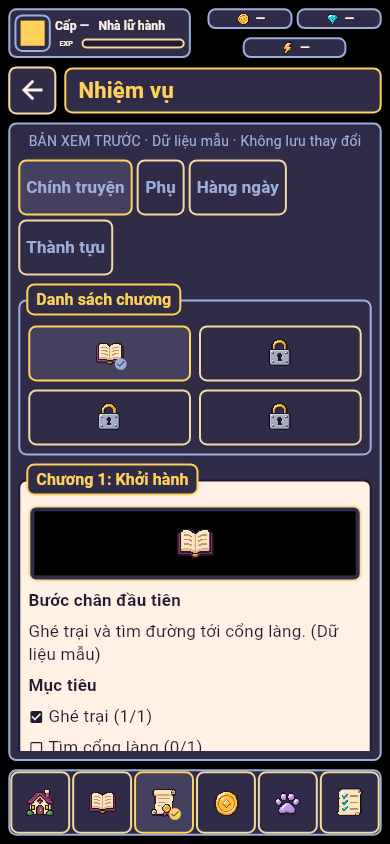
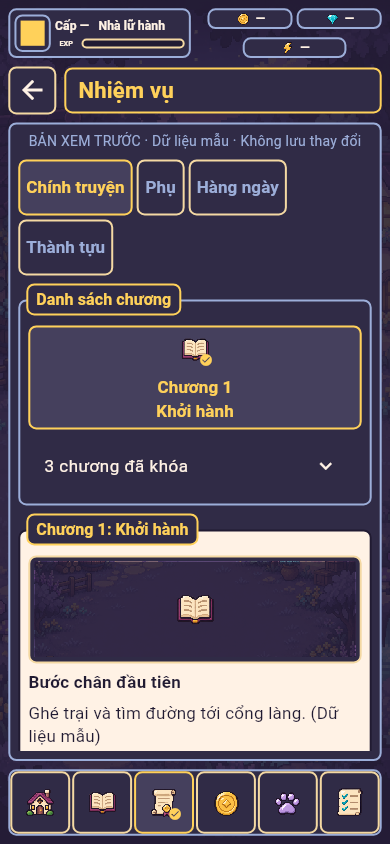
feat: clarify quest objectives and sample rewards
Keep the current chapter prominent and collapse locked chapters. Add a readable objective track and named reward cards on cream paper; preserve selected color on read-only controls.

diff --git a/lib/features/quests/presentation/quest_detail.dart b/lib/features/quests/presentation/quest_detail.dart
@@ -21,7 +21,8 @@ class QuestDetail extends StatelessWidget {
         const MenuPreview(icon: PixelIconKind.story),
         const Text('Bước chân đầu tiên', style: GameTypography.heading),
         const Text('Ghé trại và tìm đường tới cổng làng. (Dữ liệu mẫu)'),
-        const Text('Mục tiêu', style: GameTypography.heading),
+        const Text('Mục tiêu · 1 / 3', style: GameTypography.heading),
+        const PixelProgress(value: 1 / 3, label: 'Tiến độ nhiệm vụ mẫu: 1 / 3'),
         for (final (done, label) in const [
           (true, 'Ghé trại (1/1)'),
           (false, 'Tìm cổng làng (0/1)'),
@@ -32,7 +33,7 @@ class QuestDetail extends StatelessWidget {
             children: [
               Icon(
                 done ? Icons.check_box : Icons.check_box_outline_blank,
-                size: 16,
+                size: 24,
                 color: PixelUiColors.outline,
               ),
               Expanded(child: Text(label)),
@@ -40,8 +41,8 @@ class QuestDetail extends StatelessWidget {
           ),
         const Text('Phần thưởng', style: GameTypography.heading),
         MenuGrid(
-          minItemWidth: 60,
-          maxColumns: 4,
+          minItemWidth: 120,
+          maxColumns: 2,
           children: [
             for (final (icon, label, value) in const [
               (PixelIconKind.story, 'Kinh nghiệm', '50'),
@@ -53,7 +54,11 @@ class QuestDetail extends StatelessWidget {
                 label: '$label: $value',
                 excludeSemantics: true,
                 child: Column(
-                  children: [PixelIcon(icon, size: 36), Text(value)],
+                  children: [
+                    PixelIcon(icon, size: 36),
+                    Text(label, textAlign: TextAlign.center),
+                    Text(value, style: GameTypography.heading),
+                  ],
                 ),
               ),
           ],

diff --git a/lib/features/quests/presentation/quest_screen.dart b/lib/features/quests/presentation/quest_screen.dart
@@ -50,23 +50,37 @@ class _ChapterList extends StatelessWidget {
   @override
   Widget build(BuildContext context) => MenuPanel(
     title: 'Danh sách chương',
-    child: MenuGrid(
+    child: Column(
+      crossAxisAlignment: CrossAxisAlignment.stretch,
+      spacing: 8,
       children: [
-        for (final (index, name) in const [
-          'Khởi hành',
-          'Bên kia đồi',
-          'Lối mòn cũ',
-          'Chân trời mới',
-        ].indexed)
-          Semantics(
-            label: index == 0 ? null : 'Đã khóa',
-            child: MenuButton(
-              label: 'Chương ${index + 1}\n$name',
-              icon: index == 0 ? PixelIconKind.story : PixelIconKind.lock,
-              selected: index == 0,
-              onPressed: null,
+        const MenuButton(
+          label: 'Chương 1\nKhởi hành',
+          icon: PixelIconKind.story,
+          showLabel: true,
+          selected: true,
+          onPressed: null,
+        ),
+        ExpansionTile(
+          title: const Text('3 chương đã khóa'),
+          children: [
+            MenuGrid(
+              children: [
+                for (final (index, name) in const [
+                  'Bên kia đồi',
+                  'Lối mòn cũ',
+                  'Chân trời mới',
+                ].indexed)
+                  MenuButton(
+                    label: 'Chương ${index + 2}\n$name\nĐã khóa',
+                    icon: PixelIconKind.lock,
+                    showLabel: true,
+                    onPressed: null,
+                  ),
+              ],
             ),
-          ),
+          ],
+        ),
       ],
     ),
   );

diff --git a/lib/app/presentation/menu_button.dart b/lib/app/presentation/menu_button.dart
@@ -38,7 +38,9 @@ class MenuButton extends StatelessWidget {
         style: TextButton.styleFrom(
           minimumSize: const Size(48, 56),
           foregroundColor: selected ? PixelUiColors.gold : PixelUiColors.paper,
-          disabledForegroundColor: PixelUiColors.cool,
+          disabledForegroundColor: selected
+              ? PixelUiColors.gold
+              : PixelUiColors.cool,
           backgroundColor: selected
               ? PixelUiColors.raised
               : PixelUiColors.surface,

diff --git a/docs/art/ui-guidelines.md b/docs/art/ui-guidelines.md
@@ -169,3 +169,6 @@ Thanh tiến độ đặt dưới mô tả chương; cảnh minh họa nhỏ dù
 
 Hội thoại tách cảnh minh họa, giấy lời thoại có tab tên người nói và ghi chú
 xem trước. Nút về danh sách chương nằm sau lời thoại, giữ đường quay lại trên header.
+
+Nhiệm vụ ưu tiên chương hiện tại, các chương khóa thu gọn. Mục tiêu mẫu có
+tiến độ 1/3, checkbox lớn và phần thưởng kèm tên/số lượng trong lưới hai cột.
